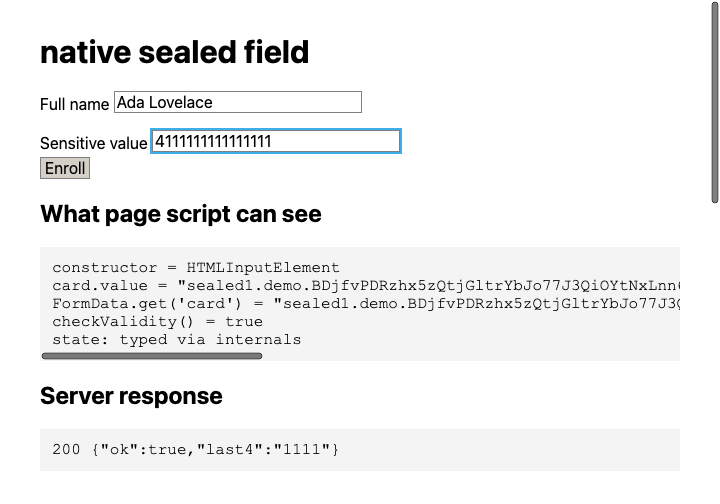
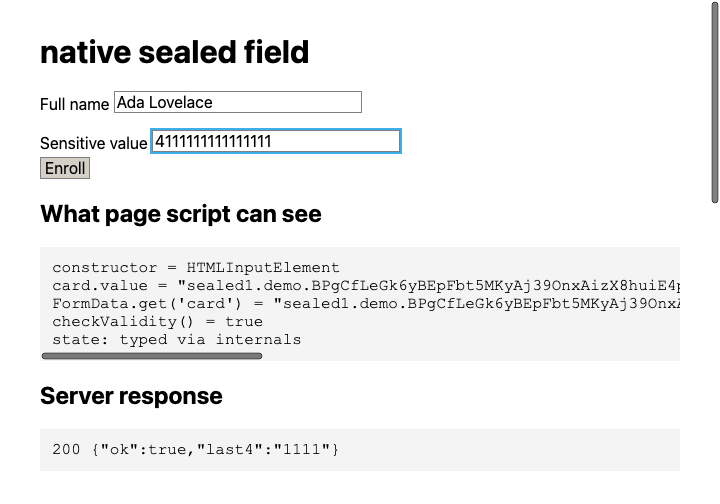
fix: hardening round B — editing history forgotten on detach; docs current

Changed region(s): [[0.4583, 0.5357, 0.9472, 0.625]]

diff --git a/docs/specs/native-ladybird-design.md b/docs/specs/native-ladybird-design.md
@@ -62,12 +62,12 @@ Each row of the explainer's Element surface becomes exactly one guard.
 | Re-seal on every input | `HTMLInputElement.cpp` `set_relevant_value()` (the UA editing write site; `attribute_changed(value)` and `reset_algorithm()` reseal too) | `if (m_sealed_field) m_sealed_field->reseal(m_value);` |
 | `input`/`change` fire with `data` null | `HTMLInputElement.cpp` `did_edit_text_node()` | pass `{}` instead of `data` when sealed |
 | `keydown`/`keyup`/`keypress` not dispatched | `Page/EventHandler.cpp` keyboard dispatch | skip script dispatch when the target's input is sealed; UA default action still runs |
-| `beforeinput` not dispatched | `Page/EventHandler.cpp` | same guard at the input-event dispatch |
+| `beforeinput` not dispatched | `Page/EventHandler.cpp` | same guard at the input-event dispatch. Exception: keyboard undo/redo (`Editing/EditingHistory.cpp` `perform_history_action()`) dispatches one trusted cancelable `beforeinput` (`historyUndo`/`historyRedo`, `data` null, no target ranges) at the step's host; availability-only, no text crosses |
 | `selectionStart`/`selectionEnd` absent | `HTMLInputElement.cpp` selection getters | return `0` when sealed |
 | `setSelectionRange()`/`select()`/`setRangeText()` absent | `HTMLInputElement.cpp` | no-op when sealed |
 | Constraints frozen on first input | `SealedField` | snapshot `pattern`/`minlength`/`maxlength`/`required` on first `reseal` |
 | Validity is one bit | `HTMLInputElement.cpp` constraint checks | `if (m_sealed_field) return m_sealed_field->is_invalid();` in the aggregate, individual flags false |
-| Attach by policy | `HTMLInputElement.cpp` `form_associated_element_was_inserted()` and the `autocomplete` branch of `attribute_changed()` | `m_sealed_field = SealedField::create_if_policy_applies(*this);` then `queue_sealed_field_start()`; a field never un-seals |
+| Attach by policy | `HTMLInputElement.cpp` `form_associated_element_was_inserted()` and the `autocomplete` branch of `form_associated_element_attribute_changed()` | `m_sealed_field = SealedField::create_if_policy_applies(*this);` then `queue_sealed_field_start()`; a field never un-seals |
 | Fail closed until ready | `SealedField` | insertions ignored until the well-known fetch completes and the key imports |
 | `sealed-ready` / `sealed-error` | `SealedField` | dispatched on the owning element |
 | Entry list carries the envelope | none | the generic branch already reads `value()` |
@@ -97,10 +97,11 @@ Added in hardening round A (H1–H3):
 
 | Explainer row | File | Guard |
 |---|---|---|
-| H1: `document.execCommand()` edits ignored, return `false` | `Editing/ExecCommand.cpp` `query_command_enabled()` | a range inside a sealed text control's shadow tree enables no command; `undo`/`redo` are disabled while the next history step's editing host `is_sealed_text_control()`. `execCommand` step 3 then returns `false`. The keyboard shortcuts go through `Editing::perform_history_action()`, which never consults this, so the user's undo still works |
+| H1: `document.execCommand()` edits ignored, return `false` | `Editing/ExecCommand.cpp` `query_command_enabled()` | a range inside a sealed text control's shadow tree enables no command; `undo`/`redo` are disabled while the next history step's editing host `is_sealed_text_control()`. `execCommand` step 3 then returns `false`. The keyboard shortcuts go through `Editing::perform_history_action()`, which never consults this, so the user's undo still works. `queryCommandEnabled("undo"\|"redo")` reads `false` in the same state: an accepted one-bit availability signal (an edit happened in a sealed field), never content or length |
 | H2: IME composition text dropped before ready | `HTML/LocalNavigable.cpp` the three `handle_insert(insertCompositionText, …)` sites | `if (sealed_input_target_is_not_ready(*target)) return;` before each insert, mirroring the keyboard and paste gates |
-| H3: `name` change re-derives the slot | `HTMLInputElement.cpp` `attribute_changed()` `name` branch | `m_sealed_field->detach(); queue_sealed_field_start();` when the value changed |
+| H3: `name` change re-derives the slot | `HTMLInputElement.cpp` `form_associated_element_attribute_changed()` `name` branch | `m_sealed_field->detach(); queue_sealed_field_start();` when the value changed |
 | H3: owning form `action` change re-derives the slot | `HTMLFormElement.cpp` `attribute_changed()` `action` branch → `FormAssociatedElement::form_action_changed(Badge<HTMLFormElement>)` → `HTMLInputElement::form_action_changed()` | same detach-and-requeue for every associated sealed input |
+| B-F1: `detach()` and `reset()` forget the field's editing history | `Editing/EditingHistory.cpp` `forget_steps_for_editing_host()`, called from `SealedField.cpp` `detach()` and `reset()` | drops every undo/redo step (and any open or in-progress step) whose editing host is the field, then notifies the UI; otherwise the user's Ctrl+Z after a rename/retarget would replay old plaintext through `ReplaceDataCommand::replay` under the new slot and key, and refreeze constraints against it |
 
 ## Envelope compatibility
 

diff --git a/docs/research/native-feasibility-ladybird.md b/docs/research/native-feasibility-ladybird.md
@@ -215,8 +215,8 @@ tests pass under `test-web`: `sealedinput-envelope` (element path) and
 through `new FormData(form)`, so both submission shapes are covered. The koschei demo
 recipient opened envelopes produced by Ladybird for both `/native` and `/native-directive`:
 
-    {"time":"2026-09-20T00:41:57.712Z","event":"sealed-input.unseal","outcome":"ok","kid":"demo","expected":{"origins":["http://localhost:4780"],"action":"http://localhost:4781/enroll","name":"ssn"}}
-    {"time":"2026-09-20T00:42:02.972Z","event":"sealed-input.unseal","outcome":"ok","kid":"demo","expected":{"origins":["http://localhost:4780"],"action":"http://localhost:4781/enroll","name":"card"}}
+    {"time":"2026-09-20T01:02:09.712Z","event":"sealed-input.unseal","outcome":"ok","kid":"demo","expected":{"origins":["http://localhost:4780"],"action":"http://localhost:4781/enroll","name":"ssn"}}
+    {"time":"2026-09-20T01:02:14.987Z","event":"sealed-input.unseal","outcome":"ok","kid":"demo","expected":{"origins":["http://localhost:4780"],"action":"http://localhost:4781/enroll","name":"card"}}
 
 Screenshots: `assets/ladybird-native.png`, `assets/ladybird-native-directive.png`. Compare with
 `assets/ladybird-sealedinput-unknown.png` (before).
@@ -238,7 +238,11 @@ execCommand-undo=false queryCommandEnabled-undo=false value-changed-by-execComma
 `keyboard-undo-changed-value=true` (the user's own shortcut still works),
 `value-after-rename="" name-after-rename=ssn2`, `ready-after-form-action-change=true`.
 `TestHPKE` gains four negative cases (off-curve recipient key, 64-byte `enc`, 15-byte
-ciphertext, empty-plaintext round trip).
+ciphertext, empty-plaintext round trip). Round B closed the editing-history carry-over:
+`value-after-undo-post-rename="" valid-after-undo-post-rename=false`,
+`value-after-redo-post-rename=""`, and `execCommand-redo=false queryCommandEnabled-redo=false`
+in the same file; without the fix the first line read back a fresh envelope of the deleted
+text.
 
 Deviations from the explainer that a native implementer should know:
 
@@ -271,3 +275,13 @@ Deviations from the explainer that a native implementer should know:
 - `document.execCommand()` edits are ignored and return `false`, including `undo` and `redo`
   while the next history step belongs to a sealed field; the keyboard shortcuts still work.
 - IME composition text is dropped before ready, like keyboard and paste input.
+- `detach()` (removal, owner change, `name` change, form `action` change) and form reset forget
+  the field's undo/redo history: undo does not cross a rename or retarget, so old plaintext is
+  never resealed under a new slot, key, or constraint set.
+- `queryCommandEnabled("undo"|"redo")` reads `false` while the next history step belongs to a
+  sealed field. Accepted as a one-bit availability signal: it says an edit happened in a
+  sealed field (indistinguishable from an empty history), never content or length.
+- The user's keyboard undo/redo dispatches one trusted, cancelable `beforeinput`
+  (`historyUndo`/`historyRedo`, `data` null, no target ranges) at the sealed field, the only
+  `beforeinput` a sealed field ever sees. Availability-only: a page can block that undo, and
+  nothing about the text crosses.

diff --git a/docs/specs/explainer.md b/docs/specs/explainer.md
@@ -195,7 +195,7 @@ using `ElementInternals` for form value and validity.
 | `value` setter | Throws `InvalidStateError`. |
 | `validity`, `validationMessage`, `checkValidity()`, `reportValidity()` | Work. `validity` exposes a single `customError` flag, not which constraint failed. `validationMessage` is generic and never echoes input. |
 | `input`, `change` | Dispatched. `InputEvent.data` is `null` and `inputType` is the empty string. |
-| `keydown`, `keyup`, `keypress`, `beforeinput`, `compositionstart/update/end`, `textInput` | Not dispatched to the page. |
+| `keydown`, `keyup`, `keypress`, `beforeinput`, `compositionstart/update/end`, `textInput` | Not dispatched to the page. One exception, native only: the user's keyboard undo/redo dispatches a trusted, cancelable `beforeinput` with `inputType` `historyUndo`/`historyRedo`, `data` null, no `dataTransfer`, no target ranges. It is availability-only: cancelling blocks that undo, and nothing about the text crosses. |
 | `paste` | Not dispatched to the page; the UA's own paste still lands in the field once it is ready. |
 | `selectionStart`, `selectionEnd`, `setSelectionRange()`, `select()` | Not present. |
 | `getSelection().toString()` | Returns `""` for a focused sealed field. |
